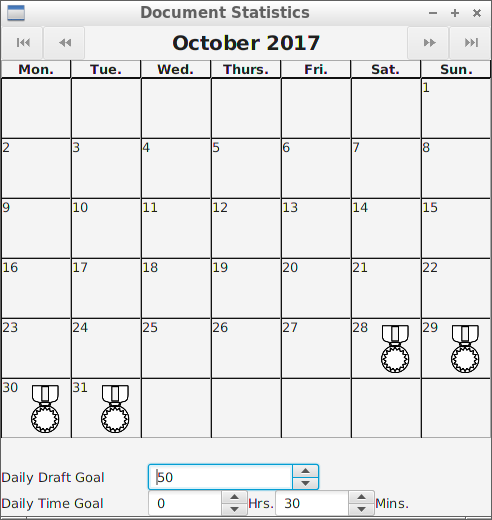
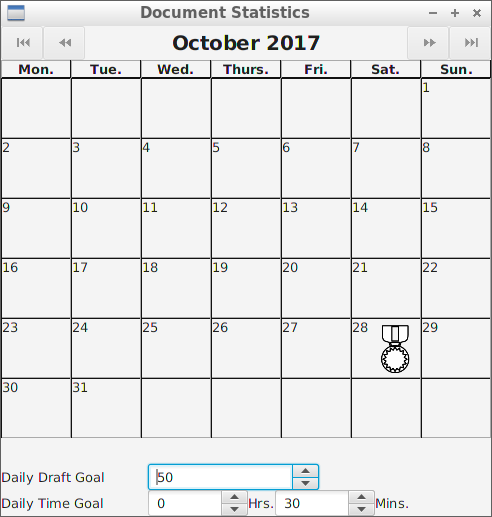
Fix stat window issue.

diff --git a/src/com/creativeartie/jwriter/stats/PaneMonthControl.java b/src/com/creativeartie/jwriter/stats/PaneMonthControl.java
@@ -34,7 +34,9 @@ public class PaneMonthControl extends PaneMonthView{
             getDayPane(i).emptyDay(date);
         // System.out.println(ptr); /// Print start of month
         ptr = getRecordTable().getStartMonth().equals(value)?
-            loadRecord(it, emptyDay, noRecord, day, ptr):
+            (getRecordTable().getEndMonth().equals(value)?
+                loadRecord(it, emptyDay, emptyDay, day, ptr):
+                loadRecord(it, emptyDay, noRecord, day, ptr)):
             (getRecordTable().getEndMonth().equals(value)?
                 loadRecord(it, noRecord, emptyDay, day, ptr):
                 loadRecord(it, noRecord, noRecord, day, ptr)); 
